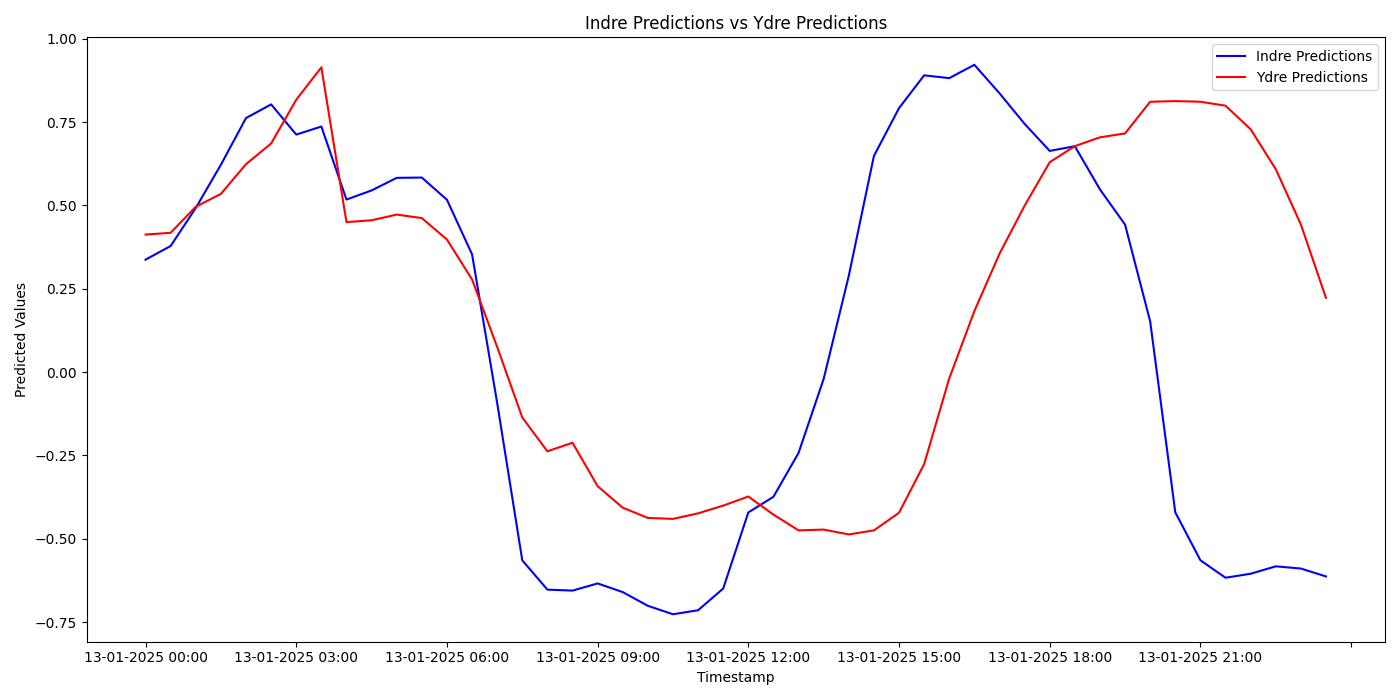
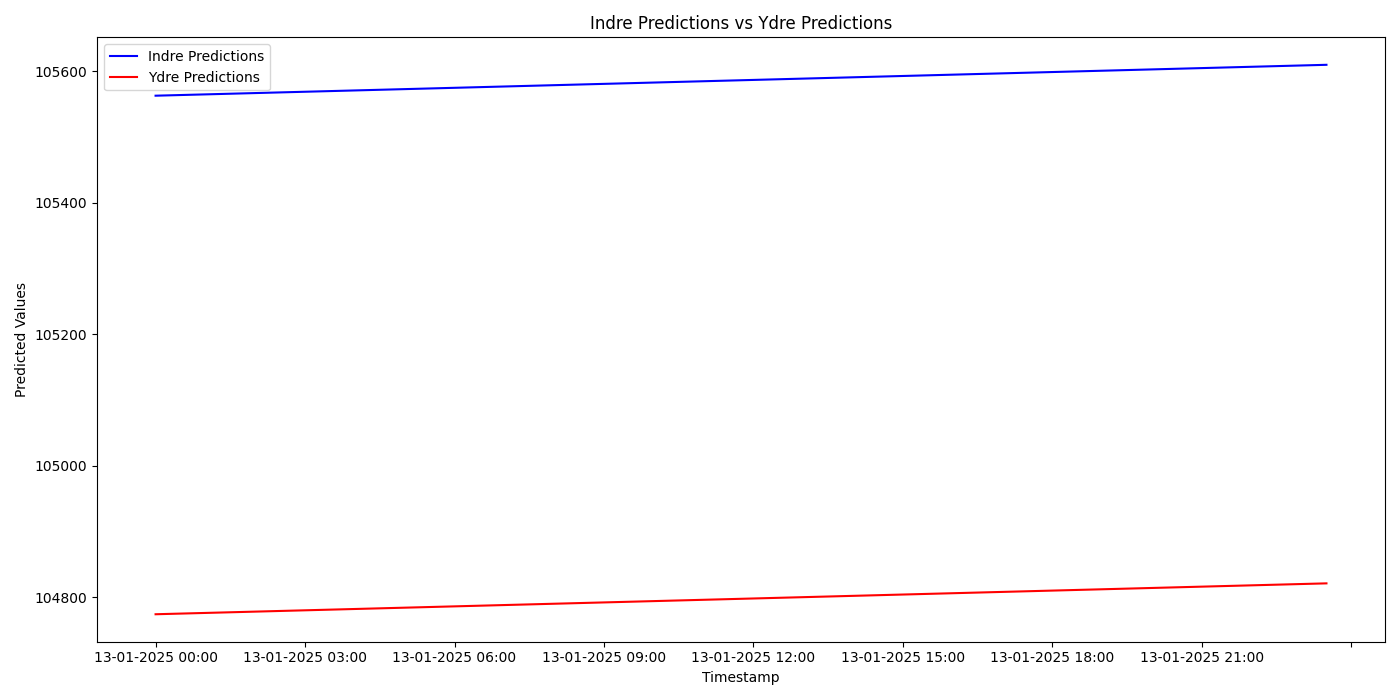
combined intersect and forcast "intersection_dict"

diff --git a/forcast.py b/forcast.py
@@ -128,7 +128,7 @@ def predictions(indre_predictions_df, ydre_predictions_df, max_xticks=10):
     # Show the plot
     plt.tight_layout()
     plt.savefig('Predictions.png')
-    plt.show()
+    # plt.show()
 
 
 # indre_predictions = indre_model.predict(indre_X_test).flatten()
@@ -169,7 +169,7 @@ def predictions(indre_predictions_df, ydre_predictions_df, max_xticks=10):
 # predictions(indre_predictions)
 
 
-def multi_step(step_size, batch_size, model, window_size, initial_window, df, learning_rate, epochs, shift):
+def multi_step(step_size, batch_size, model, window_size, initial_window, df, learning_rate, epochs, frequency, amplitude, shift):
     def train_model(model, X_train, y_train, X_val, y_val, learning_rate, epochs):
         model.compile(loss=MeanSquaredError(), optimizer=Adam(learning_rate=learning_rate), metrics=[RootMeanSquaredError()])
         model.fit(X_train, y_train, validation_data=(X_val, y_val), epochs=epochs)
@@ -201,10 +201,10 @@ def multi_step(step_size, batch_size, model, window_size, initial_window, df, le
 
         return np.array(predictions)
     
-    frequency, amplitude = 1.5, 0.4 # amplitude = height frequency = speed/oscillation
+     # amplitude = height frequency = speed/oscillation
 
     df = df.copy()  # Ensure it's a new DataFrame
-    df.loc[:, 'Sin_Feature'] = np.sin(np.linspace(0, 2 * np.pi * frequency, len(df))) + 0.5
+    df.loc[:, 'Sin_Feature'] = np.sin(np.linspace(0, 2 * np.pi * frequency, len(df))) + shift
     df.loc[:, 'Water Level'] += amplitude * df['Sin_Feature']
 
     water_level = df['Water Level']
@@ -225,12 +225,16 @@ def multi_step(step_size, batch_size, model, window_size, initial_window, df, le
         future_predictions_df = future_predictions_df[['Timestamp', 'Water Level']]
         df = df[['Timestamp', 'Water Level']]
 
-        frames = [df, future_predictions_df]
-        df = pd.concat(frames, ignore_index=True)
+        # print("future predictions", future_predictions_df.head())
+
+        df = pd.concat([df[['Timestamp', 'Water Level']], future_predictions_df[['Timestamp', 'Water Level']]], ignore_index=True)
         initial_window = df[-10**i:]
         print(f"Process {i}/{batch_size}")
 
-    return df
+    print("Final df:\n", df.head())
+    print("Final df columns:", df.columns)
+    print("Final df types:\n", df.dtypes)
+    return df.reset_index(drop=True)
 
 step_size = 48 # 1
 batch_size = 1 # 48
@@ -241,11 +245,17 @@ epochs = 1
 indre_displacement = 0.5
 ydre_displacement = 0.5
 
+indre_frequency, indre_amplitude, indre_shift = 1.5, 0.4, 0.5
+ydre_frequency, ydre_amplitude, ydre_shift = 1.9, 2, 0.25
 
-indre_df = multi_step(step_size, batch_size, indre_model, window_size, indre_initial_window, indre_df, learning_rate, epochs, indre_displacement)
+indre_df = multi_step(step_size, batch_size, indre_model, window_size, indre_initial_window, indre_df, learning_rate, epochs, indre_frequency, indre_amplitude, indre_shift)
 indre_df = indre_df.tail(batch_size*step_size)
+indre_df = indre_df.reset_index(level=[0]) 
+indre_array = indre_df[['Timestamp', 'Water Level']].values
 
-ydre_df = multi_step(step_size, batch_size, ydre_model, window_size, ydre_initial_window, ydre_df, learning_rate, epochs, ydre_displacement)
+
+ydre_df = multi_step(step_size, batch_size, ydre_model, window_size, ydre_initial_window, ydre_df, learning_rate, epochs, ydre_frequency, ydre_amplitude, ydre_shift)
 ydre_df = ydre_df.tail(batch_size*step_size)
+ydre_df = ydre_df.reset_index(level=[0]) 
+ydre_array = ydre_df[['Timestamp', 'Water Level']].values
 
-predictions(indre_df, ydre_df)

diff --git a/intersect.py b/intersect.py
@@ -1,22 +1,18 @@
+import pandas as pd
 import numpy as np
 import matplotlib.pyplot as plt
-from convert_csv import indre_vandstande, ydre_vandstande
-import pandas as pd
+from forcast import indre_array, ydre_array
 
-def get_intersection(start_line, end_line):
+def get_intersection(start_line, end_line, indre_array, ydre_array):
     # Extract water level data and timestamps
-    indre_levels = np.array(indre_vandstande["Water Level"])
-    ydre_levels = np.array(ydre_vandstande["Water Level"])
-    timestamps = pd.to_datetime(indre_vandstande["Timestamp"], format="%d-%m-%Y %H:%M")  # Assuming both have the same timestamps
+    indre_levels = indre_array[start_line:end_line, 1].astype(float)
+    ydre_levels = ydre_array[start_line:end_line, 1].astype(float)
+    timestamps = indre_array[start_line:end_line, 0]  # Assuming both have the same timestamps
 
-    # Ensure both arrays have the same length and select the desired range
-    indre_levels = indre_levels[start_line:end_line]
-    ydre_levels = ydre_levels[start_line:end_line]
-    timestamps = timestamps[start_line:end_line]
+    # Convert timestamps to datetime64 objects
+    x = np.array([np.datetime64(pd.to_datetime(ts, format="%d-%m-%Y %H:%M")) for ts in timestamps])
 
-    # Convert timestamps to numpy array
-    x = np.array(timestamps)
-
+    plt.figure(figsize=(10, 6))
     plt.plot(x, indre_levels, '-', label='Indre Vandstand')
     plt.plot(x, ydre_levels, '-', label='Ydre Vandstand')
 
@@ -37,19 +33,23 @@ def get_intersection(start_line, end_line):
             intersect_y_val = y1 + (y2 - y1) * (intersect_x_val - x1) / (x2 - x1)
             
             intersect_x.append(intersect_x_val)
-            intersect_y.append(intersect_y_val)
+            intersect_y.append(float(intersect_y_val))  # Convert np.float64 to Python float
 
     # Format the intersection points to include only the date and time
-    formatted_intersections = [pd.to_datetime(x_val).strftime('%Y-%m-%d %H:%M:%S') for x_val in intersect_x]
+    formatted_intersections = [(pd.to_datetime(x_val).strftime('%Y-%m-%d %H:%M'), y_val) for x_val, y_val in zip(intersect_x, intersect_y)]
     
-    """plt.plot(intersect_x, intersect_y, 'ro', label='Intersections')
+    plt.plot(intersect_x, intersect_y, 'ro', label='Intersections')
 
     plt.xlabel('Timestamp')
     plt.ylabel('Water Level')
     plt.legend()
-    plt.show()"""
+    plt.savefig("intersection.png")
+    # plt.show()
 
     return formatted_intersections
 
-intersection = get_intersection(0, 288) # start, end line from csv file "144 = half a day" "288 = a day"
-print(intersection) 
+intersection = get_intersection(0, 48, indre_array, ydre_array) # start, end line from csv file "144 = half a day" "288 = a day"
+
+# Create a dictionary with the intersection points
+intersection_dict = {timestamp: water_level for timestamp, water_level in intersection}
+# print(intersection_dict)
